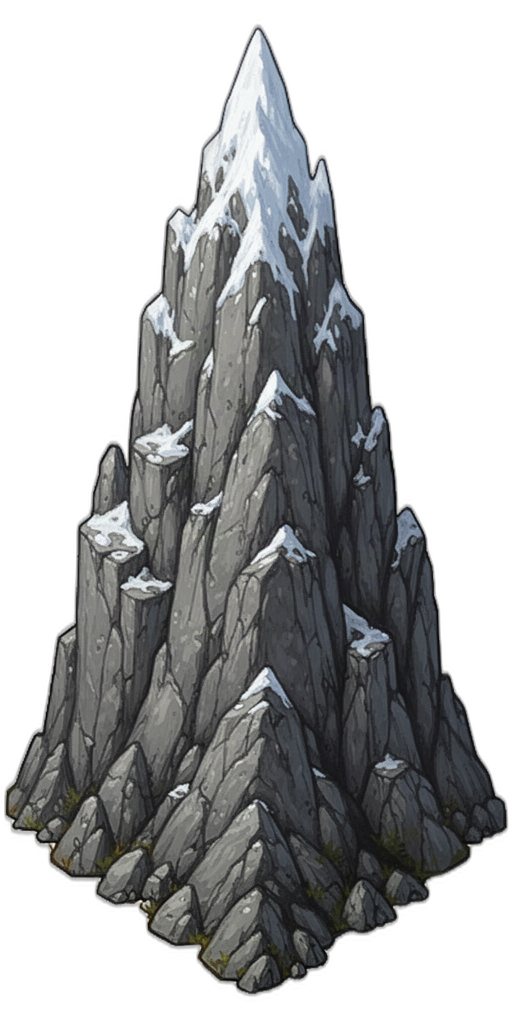
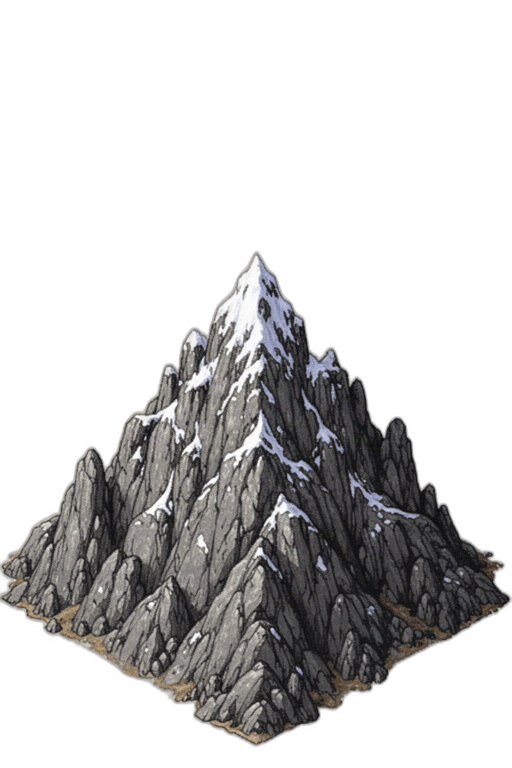
improved tiles

diff --git a/src/game/rendering/TerrainTextureManager.ts b/src/game/rendering/TerrainTextureManager.ts
@@ -3,14 +3,13 @@
  *
  * Two-layer rendering system inspired by Battle for Wesnoth:
  *
- *  Layer 1 — base ground tiles (seamless, flat top-down, 256x256)
- *    Drawn first for every tile. Transitions use smooth color gradients
- *    (no texture bleeding = no blob patterns at corners).
+ *  Layer 1 — base ground tiles (seamless, flat top-down, 256×256)
+ *    HILLS and RIVER reuse existing grass/ocean textures.
+ *    Transitions are color-gradient based — no blob patterns.
  *
- *  Layer 2 — feature sprites (isometric, transparent bg, 256x512)
- *    Drawn in painter's-algorithm row order so lower-row features
- *    appear in front. Each sprite is offset upward by one tile height
- *    so mountain peaks / tree tops extend into the row above.
+ *  Layer 2 — feature sprites (isometric, transparent bg, 256×384 = 1.5:1)
+ *    Drawn in painter's-algorithm row order. Each sprite is offset upward
+ *    by 0.5 tile so the feature slightly extends into the row above.
  */
 
 export const TERRAIN_TEXTURE_FILES: Record<string, string> = {
@@ -19,13 +18,13 @@ export const TERRAIN_TEXTURE_FILES: Record<string, string> = {
   GRASSLAND: '/assets/tiles/terrain_grassland.png',
   FOREST:    '/assets/tiles/terrain_forest.png',
   JUNGLE:    '/assets/tiles/terrain_jungle.png',
-  HILLS:     '/assets/tiles/terrain_hills.png',
+  HILLS:     '/assets/tiles/terrain_grassland.png',  // hills use grass base
   MOUNTAINS: '/assets/tiles/terrain_mountains.png',
   DESERT:    '/assets/tiles/terrain_desert.png',
   SWAMP:     '/assets/tiles/terrain_swamp.png',
   TUNDRA:    '/assets/tiles/terrain_tundra.png',
   ARCTIC:    '/assets/tiles/terrain_arctic.png',
-  RIVER:     '/assets/tiles/terrain_river.png',
+  RIVER:     '/assets/tiles/terrain_ocean.png',      // river uses ocean base
 };
 
 export const FEATURE_TEXTURE_FILES: Partial<Record<string, string>> = {
@@ -151,8 +150,8 @@ export class TerrainTextureManager {
     neighborType: string,
     tileX: number, tileY: number, tileSize: number,
     direction: 'N' | 'E' | 'S' | 'W',
-    blendFraction = 0.32,
-    maxAlpha       = 0.60,
+    blendFraction = 0.40,
+    maxAlpha       = 0.65,
   ): void {
     const colorBase = TERRAIN_BLEND_COLOR[neighborType.toUpperCase()];
     if (!colorBase) return;
@@ -184,10 +183,29 @@ export class TerrainTextureManager {
     ctx.restore();
   }
 
+  /** Radial gradient at a tile corner for diagonal neighbour blending. */
+  drawCornerBlend(
+    ctx: CanvasRenderingContext2D,
+    neighborType: string,
+    cornerX: number,
+    cornerY: number,
+    radius: number,
+    maxAlpha = 0.32,
+  ): void {
+    const colorBase = TERRAIN_BLEND_COLOR[neighborType.toUpperCase()];
+    if (!colorBase) return;
+    const g = ctx.createRadialGradient(cornerX, cornerY, 0, cornerX, cornerY, radius);
+    g.addColorStop(0,    `${colorBase}${maxAlpha})`);
+    g.addColorStop(0.6,  `${colorBase}${(maxAlpha * 0.3).toFixed(2)})`);
+    g.addColorStop(1,    'rgba(0,0,0,0)');
+    ctx.fillStyle = g;
+    ctx.fillRect(cornerX - radius, cornerY - radius, radius * 2, radius * 2);
+  }
+
   // ── Feature sprite (painter's algorithm, upward offset) ─────────────────
   //
-  // Sprite is 1:2 (width : 2*width). Bottom aligns with tile bottom;
-  // top extends one full tileSize above — creating depth like Wesnoth trees.
+  // Sprites are 1.5:1 (width : 1.5*width = 256×384).
+  // Feature sits in the lower part; top 0.5 tile extends above the tile edge.
 
   drawFeature(
     ctx: CanvasRenderingContext2D,
@@ -196,6 +214,7 @@ export class TerrainTextureManager {
   ): void {
     const img = this.getFeatureTexture(terrainType);
     if (!img) return;
-    ctx.drawImage(img, tileX, tileY - tileSize, tileSize, tileSize * 2);
+    // Offset up by 0.5 tiles; total height = 1.5 tiles
+    ctx.drawImage(img, tileX, tileY - tileSize * 0.5, tileSize, tileSize * 1.5);
   }
 }

diff --git a/src/game/rendering/MapRenderer.ts b/src/game/rendering/MapRenderer.ts
@@ -420,7 +420,10 @@ export class MapRenderer {
       }
     }
 
-    // ── Pass 2: color-based edge transitions (clean, no blob patterns) ───
+    // ── Pass 2: color-based edge + corner transitions ─────────────────────
+    //
+    // Cardinal edges: wider blend band for smoother blending (was 0.25, now 0.40).
+    // Diagonal corners: small radial gradient so corners don't look sharply cut.
     if (tm && tm.isReady) {
       for (let row = 0; row < map.height; row++) {
         for (let col = 0; col < map.width; col++) {
@@ -430,6 +433,7 @@ export class MapRenderer {
           const y = row * scaledTile;
           const tPriority = tm.getPriority(tile.type);
 
+          // Cardinal edges — wider blend = smoother transition
           const edges: Array<{ dcol: number; drow: number; dir: 'N'|'E'|'S'|'W' }> = [
             { dcol: 0, drow: -1, dir: 'N' },
             { dcol: 1, drow:  0, dir: 'E' },
@@ -441,10 +445,25 @@ export class MapRenderer {
             if (!n?.explored || n.type === tile.type) continue;
             const nPriority = tm.getPriority(n.type);
             if (nPriority <= tPriority) continue;
-            const diff    = nPriority - tPriority;
-            const alpha   = Math.min(0.72, 0.42 + diff * 0.05);
-            const blend   = Math.min(0.42, 0.25 + diff * 0.025);
+            const diff  = nPriority - tPriority;
+            const alpha = Math.min(0.78, 0.50 + diff * 0.05);
+            const blend = Math.min(0.50, 0.40 + diff * 0.02);
             tm.drawColorTransition(ctx, n.type, x, y, scaledTile, dir, blend, alpha);
+          }
+
+          // Diagonal corners — fill gaps where only the diagonal neighbour differs
+          const corners: Array<{ dcol: number; drow: number; cx: number; cy: number }> = [
+            { dcol: -1, drow: -1, cx: x,               cy: y               },
+            { dcol:  1, drow: -1, cx: x + scaledTile,  cy: y               },
+            { dcol:  1, drow:  1, cx: x + scaledTile,  cy: y + scaledTile  },
+            { dcol: -1, drow:  1, cx: x,               cy: y + scaledTile  },
+          ];
+          for (const { dcol, drow, cx, cy } of corners) {
+            const n = terrainGrid[row + drow]?.[col + dcol];
+            if (!n?.explored || n.type === tile.type) continue;
+            const nPriority = tm.getPriority(n.type);
+            if (nPriority <= tPriority) continue;
+            tm.drawCornerBlend(ctx, n.type, cx, cy, scaledTile * 0.52, 0.32);
           }
         }
       }
